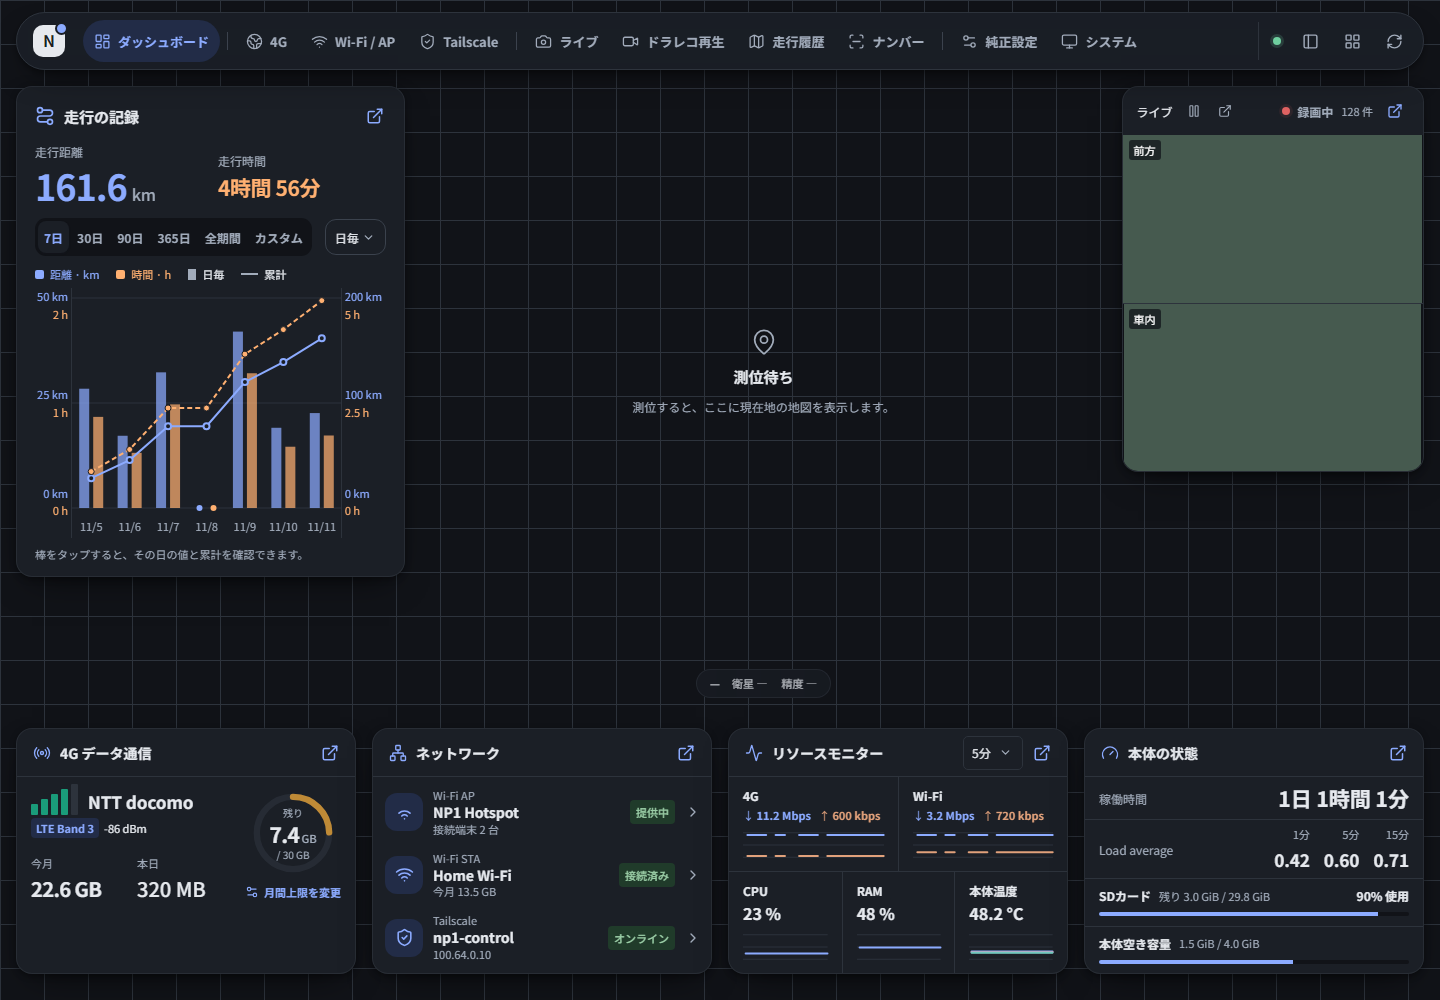
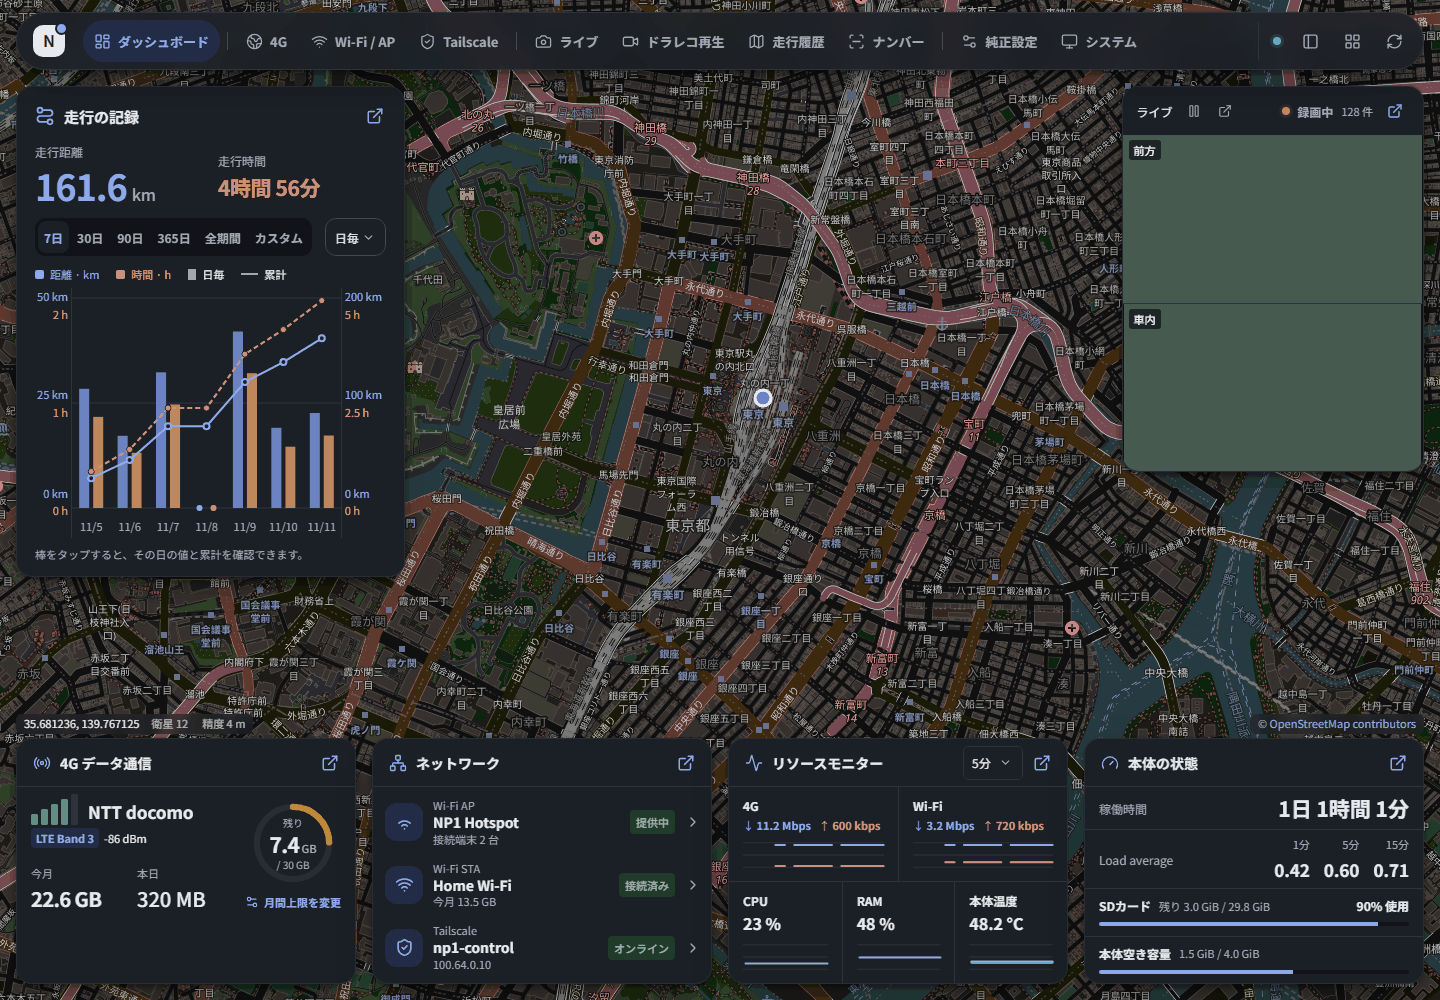
docs: refresh the dashboard illustration in both themes
- Regenerate the README dashboard screenshot from the current overview
  layout: the map now shows a sample position, so the panels sit on the
  map instead of an empty background, with the position readings in the
  bottom-left and the map credit in the bottom-right.
- Add a light-theme illustration next to the dark one.
- readme-screenshot.spec.ts: choose the theme with NCC_PUBLIC_THEME and
  report a fixed sample position, so both illustrations come from the
  same synthetic fixture.

diff --git a/frontend/tests/readme-screenshot.spec.ts b/frontend/tests/readme-screenshot.spec.ts
@@ -3,6 +3,7 @@ import {readFileSync} from 'node:fs'
 test.skip(process.env.NCC_PUBLIC_SCREENSHOTS!=='1','Explicit synthetic public illustration only')
 // The public illustration shows what a first-time browser gets: the floating menu and the overview dashboard.
 test.use({storageState:{cookies:[],origins:[]}})
+const theme=process.env.NCC_PUBLIC_THEME==='light'?'light':'dark'
 test('public dashboard illustration contains only synthetic data',async({page},info)=>{
  const jpeg=Buffer.from(readFileSync(new URL('./plate-recognition.spec.ts',import.meta.url),'utf8').match(/const jpeg=Buffer.from\('([^']+)'/)![1]!,'base64')
  const base=process.env.NCC_UI_REVIEW_URL
@@ -21,8 +22,8 @@ test('public dashboard illustration contains only synthetic data',async({page},i
   const path=new URL(route.request().url()).pathname;let value:unknown={}
   if(path.endsWith('/events'))return route.fulfill({contentType:'text/event-stream',body:': synthetic\n\n'})
   if(path.endsWith('/auth/session'))value={csrf:'synthetic-only'}
-  if(path.endsWith('/settings'))value={revision:1,theme:'dark',locale:'ja',favorites:[],cellularLimitBytes:'30000000000'}
-  if(path.endsWith('/system/summary'))value={modem:obs({registered:true,psAttached:true,rat:'LTE',plmn:'44010',band:'B3',bands:['B3'],rsrp:-86,rsrq:-10,snr:15}),apnCurrent:obs({current:true,apn:'sample.example',wanIPv4:'192.0.2.20'}),wifi:obs({ssid:'Home Wi-Fi',wpa_state:'COMPLETED',key_mgmt:'WPA2-PSK',freq:2437}),hotspot:obs({enabled:true,ssid:'NP1 Hotspot',clientCount:2,mode:'always-on'}),tailscale:obs({online:true,backendState:'Running',ips:['100.64.0.10'],deviceName:'np1-control',accountLogin:'owner@example.com',activePeerConnections:['Direct']}),gps:obs({fix:false}),cpu:obs({usedPercent:23}),ram:obs({usedPercent:48,usedBytes:'1288490188',totalBytes:'2684354560'}),sd:obs({freeBytes:'3221225472',totalBytes:'32000000000',usedPercent:90}),internalStorage:obs({freeBytes:'1610612736',totalBytes:'4294967296',usedPercent:62.5}),temperatures:obs([{name:'cpu',celsius:48.2},{name:'gpu-usr',celsius:44.1},{name:'mdm-core-usr',celsius:42.3},{name:'emmc_ufs-therm',celsius:39.4}]),recording:obs({writing:true,cameras:{front:true,in:true},writingObservedAt:new Date(sampleTime).toISOString(),finalizedClips:128}),uptime:obs(90061),load:obs('0.42 0.60 0.71 1/100 999'),tripStats:obs({periods:{7:period}})}
+  if(path.endsWith('/settings'))value={revision:1,theme,locale:'ja',favorites:[],cellularLimitBytes:'30000000000'}
+  if(path.endsWith('/system/summary'))value={modem:obs({registered:true,psAttached:true,rat:'LTE',plmn:'44010',band:'B3',bands:['B3'],rsrp:-86,rsrq:-10,snr:15}),apnCurrent:obs({current:true,apn:'sample.example',wanIPv4:'192.0.2.20'}),wifi:obs({ssid:'Home Wi-Fi',wpa_state:'COMPLETED',key_mgmt:'WPA2-PSK',freq:2437}),hotspot:obs({enabled:true,ssid:'NP1 Hotspot',clientCount:2,mode:'always-on'}),tailscale:obs({online:true,backendState:'Running',ips:['100.64.0.10'],deviceName:'np1-control',accountLogin:'owner@example.com',activePeerConnections:['Direct']}),gps:obs({fix:true,at:new Date(sampleTime).toISOString(),lat:35.681236,lon:139.767125,satellites:12,accuracyM:4}),cpu:obs({usedPercent:23}),ram:obs({usedPercent:48,usedBytes:'1288490188',totalBytes:'2684354560'}),sd:obs({freeBytes:'3221225472',totalBytes:'32000000000',usedPercent:90}),internalStorage:obs({freeBytes:'1610612736',totalBytes:'4294967296',usedPercent:62.5}),temperatures:obs([{name:'cpu',celsius:48.2},{name:'gpu-usr',celsius:44.1},{name:'mdm-core-usr',celsius:42.3},{name:'emmc_ufs-therm',celsius:39.4}]),recording:obs({writing:true,cameras:{front:true,in:true},writingObservedAt:new Date(sampleTime).toISOString(),finalizedClips:128}),uptime:obs(90061),load:obs('0.42 0.60 0.71 1/100 999'),tripStats:obs({periods:{7:period}})}
   if(path.endsWith('/traffic/usage'))value=obs({networks:{cellular:{status:'available',active:true,todayRX:'280000000',todayTX:'40000000',monthRX:'21000000000',monthTX:'1600000000',speedStatus:'available',stale:false,rxBytesPerSecond:1400000,txBytesPerSecond:75000},wifi:{status:'available',active:true,todayRX:'3000000000',todayTX:'250000000',monthRX:'12000000000',monthTX:'1500000000',speedStatus:'available',stale:false,rxBytesPerSecond:400000,txBytesPerSecond:90000}},stale:false,sampledAt:new Date(sampleTime).toISOString()})
   if(path.endsWith('/trips'))value=obs({range:{period:'7',from:'2026-11-05',to:'2026-11-11'},days,period,trips:[],totalTrips:0,detailsTruncated:false,sourceTruncated:false,sourceFiles:40,unreadableFiles:0,noFixSentences:0,badChecksums:0,indexedAt:'2026-11-11T08:00:00Z',source:'synthetic',status:'available'})
   await route.fulfill({json:value})
@@ -38,5 +39,5 @@ test('public dashboard illustration contains only synthetic data',async({page},i
  await expect(page.locator('[data-metric=cpu] .resource-line')).toHaveAttribute('d',/L/)
  // Stepping the clock can abort a camera frame that is in flight; wait until both pictures are back.
  await expect(page.locator('.dashboard-camera-pair img')).toHaveCount(2)
- await page.screenshot({path:info.outputPath('dashboard-sample.png'),fullPage:true})
+ await page.screenshot({path:info.outputPath(`dashboard-${theme}.png`),fullPage:true})
 })

diff --git a/README.md b/README.md
@@ -6,7 +6,9 @@ Pioneer NP1をブラウザーから管理する、非公式のWebアプリケー
 
 **root ADBで接続できる所有者のNP1向けです。現在は開発版で、対応ファームウェアと機能に制限があります。** 純正アプリ・ファームウェア・ライブラリは同梱していません。
 
-![ダッシュボードの画面例](docs/images/dashboard-dark.png)
+![ダッシュボードの画面例（ダーク）](docs/images/dashboard-dark.png)
+
+![ダッシュボードの画面例（ライト）](docs/images/dashboard-light.png)
 
 *画面例はすべてサンプルデータです。ライト・ダークテーマに対応しています。PCのメニューは上部と左側から選べ、スマートフォンでは下部に表示します。*
 
